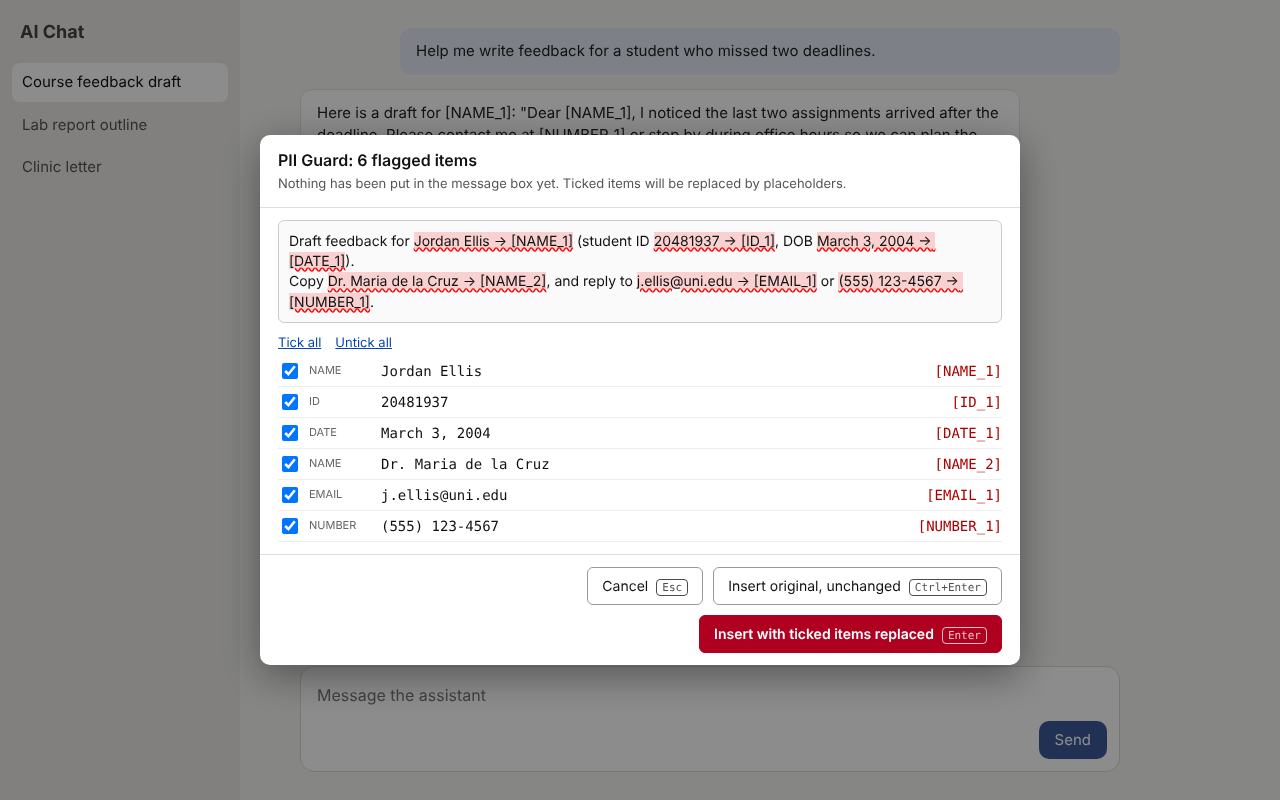
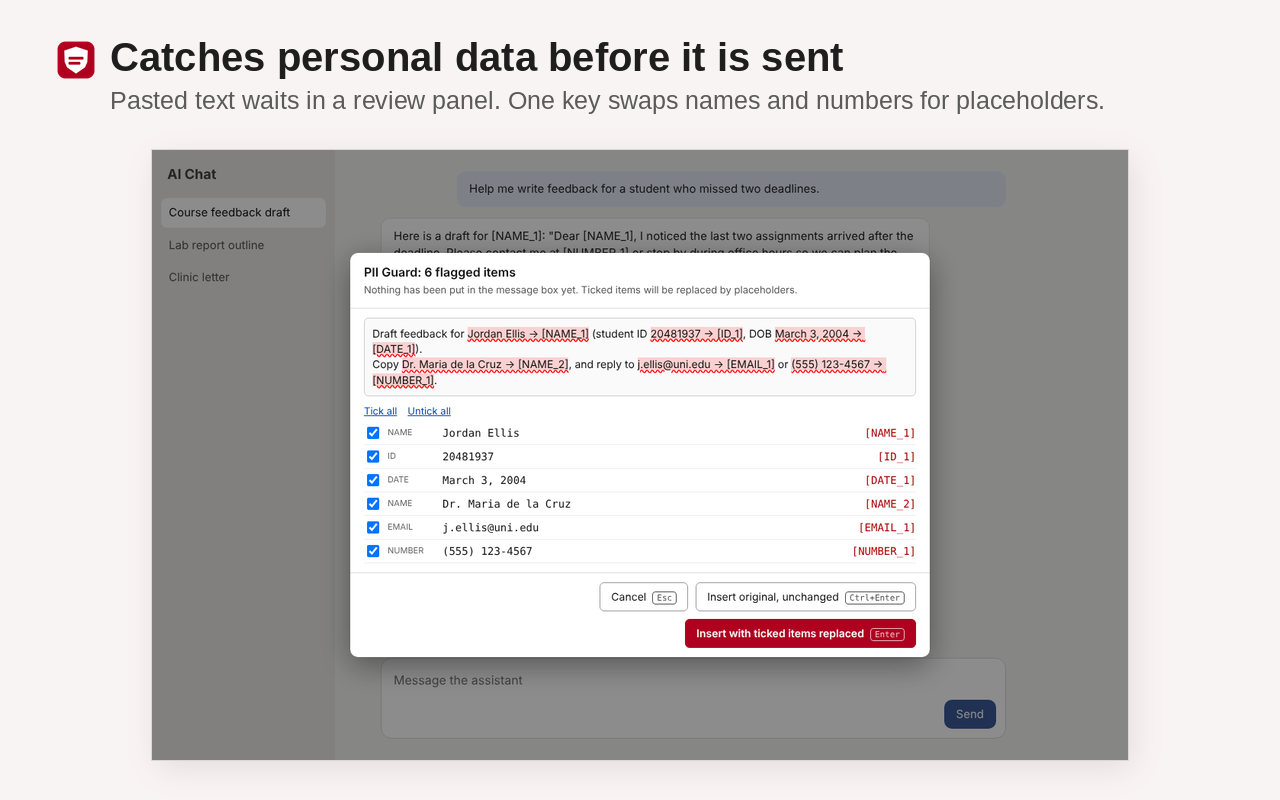
Store images: captioned 1280x800 screenshots and marquee tile
Claude-Session: https://claude.ai/code/session_0112ns9eU3L3qduK4awSJuWU

diff --git a/test/screenshots.js b/test/screenshots.js
@@ -19,11 +19,11 @@ const types = { '.html': 'text/html', '.js': 'text/javascript', '.css': 'text/cs
   const text = 'Draft feedback for Jordan Ellis (student ID 20481937, DOB March 3, 2004).\nCopy Dr. Maria de la Cruz, and reply to j.ellis@uni.edu or (555) 123-4567.';
   await page.evaluate((t) => navigator.clipboard.writeText(t), text);
   await page.click('#prompt-textarea'); await page.keyboard.press('Control+V'); await page.waitForTimeout(600);
-  await page.screenshot({ path: path.join(OUT, 'screenshot-1-review.png') });
+  await page.screenshot({ path: path.join(OUT, 'raw', 'review.png') });
   await page.keyboard.press('Escape'); await page.waitForTimeout(200);
   await page.keyboard.type('Ask Jordan Ellis to email me from j.ellis@uni.edu about the March 3, 2024 lab');
   await page.waitForTimeout(1000);
-  await page.screenshot({ path: path.join(OUT, 'screenshot-2-typing.png') });
+  await page.screenshot({ path: path.join(OUT, 'raw', 'typing.png') });
   // set up a key so "show originals" has something to restore
   await sw.evaluate(() => globalThis.__piiGuard.tokensFor([{ type: 'NAME', text: 'Jordan Ellis' }, { type: 'NUMBER', text: '(555) 123-4567' }, { type: 'NAME', text: 'Dr. Maria de la Cruz' }], true));
   await page.keyboard.press('Control+A'); await page.keyboard.press('Delete');
@@ -31,10 +31,10 @@ const types = { '.html': 'text/html', '.js': 'text/javascript', '.css': 'text/cs
   const tabId = await sw.evaluate(async () => Math.max(...(await chrome.tabs.query({})).map((t) => t.id)));
   await sw.evaluate(([id]) => globalThis.__piiGuard.handleMenuClick({ menuItemId: 'pii-guard-show', selectionText: 'x', frameId: 0 }, { id }), [tabId]);
   await page.waitForTimeout(700);
-  await page.screenshot({ path: path.join(OUT, 'screenshot-3-originals.png') });
+  await page.screenshot({ path: path.join(OUT, 'raw', 'originals.png') });
   const opt = await ctx.newPage();
   await opt.goto(`chrome-extension://${extId}/options.html`); await opt.waitForTimeout(600);
-  await opt.screenshot({ path: path.join(OUT, 'screenshot-4-settings.png') });
+  await opt.screenshot({ path: path.join(OUT, 'raw', 'settings.png') });
   await ctx.close();
   console.log('screenshots written to store/');
 })();

diff --git a/store/make-store-images.py b/store/make-store-images.py
@@ -1,0 +1,60 @@
+# Makes the Chrome Web Store images: 5 captioned screenshots (1280x800) and the marquee tile (1400x560).
+# All saved as 24-bit RGB PNG (no alpha). Run: python3 store/make-store-images.py [rightclick-frame.png]
+from PIL import Image, ImageDraw, ImageFont, ImageFilter
+import os, sys
+HERE = os.path.dirname(os.path.abspath(__file__))
+B = '/usr/share/fonts/truetype/liberation/LiberationSans-Bold.ttf'
+R = '/usr/share/fonts/truetype/liberation/LiberationSans-Regular.ttf'
+RED = (176, 0, 32); INK = (30, 30, 30); MUTED = (90, 90, 90); BG = (248, 244, 243); GREEN = (26, 127, 75)
+ICON = Image.open(os.path.join(HERE, '..', 'src', 'icons', 'icon512.png'))
+f = ImageFont.truetype
+
+def shot(out, src, title, sub, crop=None):
+    W, H = 1280, 800
+    im = Image.new('RGB', (W, H), BG); d = ImageDraw.Draw(im)
+    ic = ICON.resize((40, 40), Image.LANCZOS); im.paste(ic, (56, 40), ic)
+    d.text((110, 34), title, font=f(B, 40), fill=INK)
+    d.text((110, 86), sub, font=f(R, 25), fill=MUTED)
+    pic = Image.open(src).convert('RGB')
+    if crop: pic = pic.crop(crop)
+    box_w, box_h = 1168, 610
+    s = min(box_w / pic.width, box_h / pic.height)
+    pic = pic.resize((round(pic.width * s), round(pic.height * s)), Image.LANCZOS)
+    x, y = (W - pic.width) // 2, 150 + (box_h - pic.height) // 2
+    shadow = Image.new('L', (W, H), 0)
+    ImageDraw.Draw(shadow).rounded_rectangle([x + 4, y + 8, x + pic.width + 4, y + pic.height + 8], 14, fill=80)
+    im.paste((185, 175, 175), (0, 0), shadow.filter(ImageFilter.GaussianBlur(14)))
+    im.paste(pic, (x, y))
+    ImageDraw.Draw(im).rectangle([x - 1, y - 1, x + pic.width, y + pic.height], outline=(220, 214, 214), width=1)
+    im.save(os.path.join(HERE, out))
+
+def marquee():
+    W, H = 1400, 560
+    im = Image.new('RGB', (W, H), BG); d = ImageDraw.Draw(im)
+    ic = ICON.resize((220, 220), Image.LANCZOS); im.paste(ic, (90, 170), ic)
+    d.text((360, 150), 'PII Guard', font=f(B, 96), fill=RED)
+    d.text((364, 268), 'Keep names, e-mails and numbers out of your AI chats.', font=f(R, 38), fill=INK)
+    chip_y = 340
+    for i, (a, b) in enumerate([('John Smith', '[NAME_1]'), ('555-123-4567', '[NUMBER_1]')]):
+        x = 364 + i * 470
+        txt = f'{a} → {b}'
+        w = d.textlength(txt, font=f(B, 30)) + 40
+        d.rounded_rectangle([x, chip_y, x + w, chip_y + 58], 12, fill=(255, 225, 228))
+        d.text((x + 20, chip_y + 13), txt, font=f(B, 30), fill=RED)
+    d.text((364, 440), 'Runs 100% on your computer', font=f(B, 32), fill=GREEN)
+    im.save(os.path.join(HERE, 'promo-marquee-1400x560.png'))
+
+rightclick = sys.argv[1] if len(sys.argv) > 1 else None
+shot('screenshot-1-review.png', os.path.join(HERE, 'raw', 'review.png'), 'Catches personal data before it is sent',
+     'Pasted text waits in a review panel. One key swaps names and numbers for placeholders.')
+shot('screenshot-2-typing.png', os.path.join(HERE, 'raw', 'typing.png'), 'Flags names, e-mails and dates as you type',
+     'Sending pauses until you have reviewed what was found.')
+if rightclick:
+    shot('screenshot-3-rightclick.png', rightclick, 'Teach it new names in two clicks',
+         'Select a word, right-click, PII Guard → Always flag (or Never flag).', crop=(0, 120, 848, 906))
+shot('screenshot-4-originals.png', os.path.join(HERE, 'raw', 'originals.png'), 'Get the real names back',
+     '"Show originals" restores the AI’s reply in a private panel, never in the page.')
+shot('screenshot-5-settings.png', os.path.join(HERE, 'raw', 'settings.png'), 'Your rules, tested live',
+     'Switch rules on or off, add names and your own patterns. Includes HIPAA rules.')
+marquee()
+print('ok')

diff --git a/store/LISTING.md b/store/LISTING.md
@@ -30,8 +30,10 @@ PII Guard lowers the risk of sharing personal data; it does not by itself make y
 
 **Graphics:**
 - Icon 128×128: inside the zip (`icons/icon128.png`)
-- Screenshots 1280×800: `store/screenshot-1-review.png`, `-2-typing.png`, `-3-originals.png`, `-4-settings.png`
-- Small promo tile 440×280: `store/promo-small-440x280.png`
+- Screenshots 1280×800 (in this order): `screenshot-1-review.png`, `screenshot-2-typing.png`, `screenshot-3-rightclick.png`, `screenshot-4-originals.png`, `screenshot-5-settings.png`
+- Small promo tile 440×280: `promo-small-440x280.png`
+- Marquee promo tile 1400×560 (optional): `promo-marquee-1400x560.png`
+- All are 24-bit PNG without transparency. Rebuild with `python3 store/make-store-images.py store/raw/rightclick.png`.
 
 ## Privacy practices tab (answers to confirm before submitting)
 
